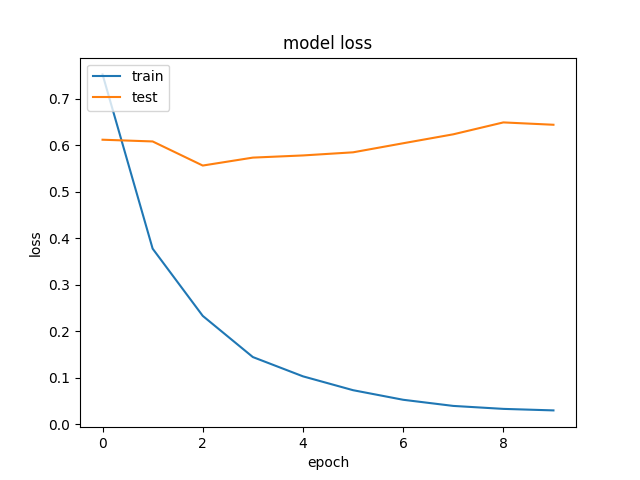
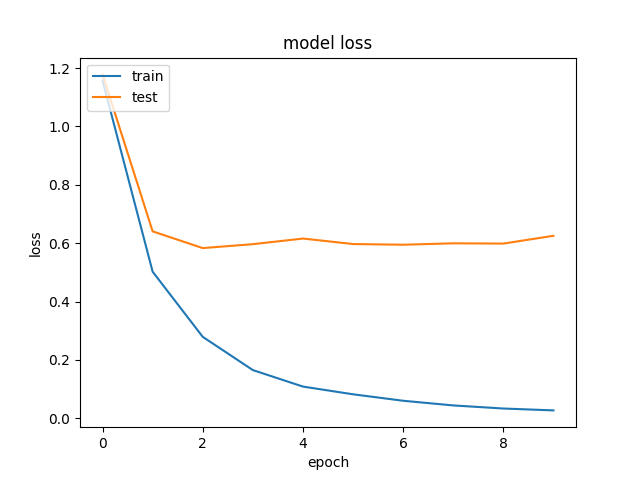
architecture inception v3 k fold cross validation with weigths

diff --git a/tese/vgg16_kfold_tune.py b/tese/vgg16_kfold_tune.py
@@ -64,7 +64,25 @@ test_generator = test_datagen.flow_from_directory(
 )
 
 #higher weight for the class with less samples (neutral class)
-class_weights = {0: 1., 1: 1.}
+#class_weights = {0: 1., 1: 1.}
+
+#define classes and print each class and number of samples
+classes = train_generator.class_indices
+print(classes)
+
+neutral = 6821
+notneutral = 30209
+total = neutral + notneutral
+
+# Scaling by total/2 helps keep the loss to a similar magnitude.
+# The sum of the weights of all examples stays the same.
+weight_for_0 = (1 / neutral) * (total / 2.0)
+weight_for_1 = (1 / notneutral) * (total / 2.0)
+
+print('Weight for class 0: {:.2f}'.format(weight_for_0))
+print('Weight for class 1: {:.2f}'.format(weight_for_1))
+
+class_weights = {0: weight_for_0, 1: weight_for_1}
 
 # Load pre-trained VGG16 model without the top layers
 base_model = VGG16(weights='imagenet', include_top=False)
@@ -137,14 +155,14 @@ for fold, (train_df, val_df) in enumerate(k_folds):
         train_df,
         x_col="filename",
         y_col="class",
-        target_size=(224, 224),
+        target_size=(299, 299),
         batch_size=32,
         shuffle=True)
     val_generator = ImageDataGenerator(preprocessing_function=preprocess_input).flow_from_dataframe(
         val_df,
         x_col="filename",
         y_col="class",
-        target_size=(224, 224),
+        target_size=(299, 299),
         batch_size=32,
         shuffle=False)
 
@@ -172,7 +190,7 @@ model.compile(optimizer=opt, loss='categorical_crossentropy', metrics=['accuracy
 history = model.fit(train_generator, epochs=10, validation_data=val_generator, class_weight=class_weights)
 
 #save the model
-model.save('./vgg16.h5')
+model.save('../../vgg16.h5')
 
 #evaluate the model on the test dataset
 model.evaluate(test_generator)
